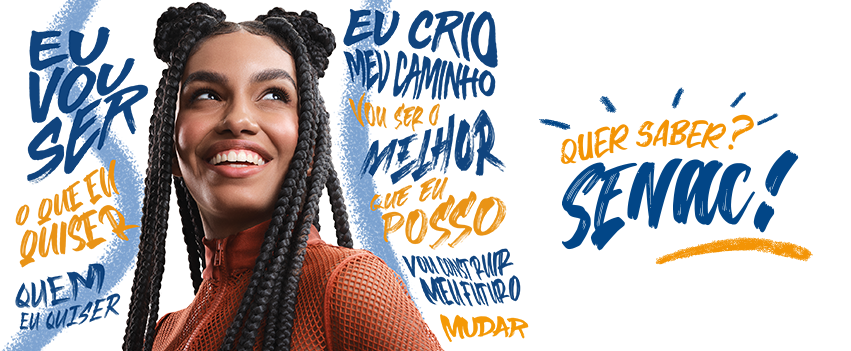
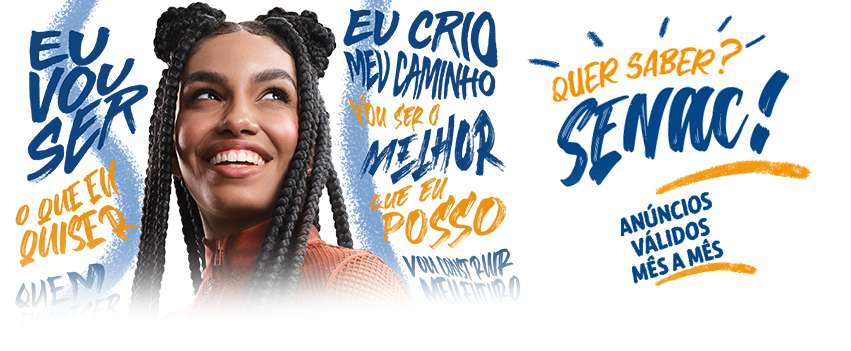
Finalização do Mural
Finalização do Mural com conexão de banco de dados.

diff --git a/style.css b/style.css
@@ -129,6 +129,18 @@ footer {
   transform: scale(0.98);
 }
 
+/* ================== BOTÃO CANCELAR ================== */
+.modal-conteudo .btn.btn-secondary {
+  background-color: #004A8D; /* Azul por padrão */
+  color: white;              /* Texto branco */
+}
+
+.modal-conteudo .btn.btn-secondary:hover {
+  background-color: #ffffff; /* Fica branco no hover */
+  color: #004A8D;            /* Texto azul no hover */
+  border: 1px solid #004A8D; /* Borda azul */
+}
+
 /* ================== ÁREA DOS CARDS ================== */
 .cards {
     display: flex; /* Layout flexível em linha */
@@ -204,6 +216,10 @@ footer {
   padding: 10px;
   border-radius: 5px;
   display: none;
+  text-align: center; /* Alinha o texto principal */
+}
+.alerta * {
+  text-align: center; /* Garante que filhos também respeitem */
 }
 .alerta.sucesso {
   color: #155724;
@@ -216,12 +232,14 @@ footer {
   border: 1px solid #f5c6cb;
 }
 
+
+
 /*================== HERO ==================*/
 .hero {
   background: #e0e0e0; /* Cinza claro Define o fundo da seção hero como um tom de cinza claro*/
   text-align: center; /*Centraliza o texto dentro dessa seção*/
   position: relative;/* Define o posicionamento relativo do elemento, permitindo o posicionamento absoluto de elementos internos dentro dele */
-  background-image: url('imagens/mural.webp');/* Define a imagem de fundo do elemento com o caminho fornecido */
+  background-image: url('imagens/senac.png');/* Define a imagem de fundo do elemento com o caminho fornecido */
   background-size: cover;/* Faz a imagem de fundo cobrir todo o espaço do elemento, mantendo a proporção e cortando a imagem se necessário */
   background-position: center;/* Posiciona a imagem de fundo no centro do elemento */
   background-repeat: no-repeat;/* Impede que a imagem de fundo se repita se o tamanho do elemento for maior que a imagem */
@@ -396,4 +414,19 @@ footer {
   height: auto !important;
   margin: 5px 0;
   vertical-align: middle !important;
+}
+
+/*================== IMAGEM ANUNCIO NO MODAL ==================*/
+.anuncios {
+  display: block;           /* Faz a imagem se comportar como bloco */
+  margin: 0 auto;           /* Centraliza horizontalmente */
+  max-width: 100%;          /* Faz a imagem se ajustar ao tamanho da tela */
+  height: auto;             /* Mantém a proporção */
+  width: 300px;             /* Tamanho máximo desejado (ajuste como quiser) */
+}
+
+@media (max-width: 600px) {
+  .anuncios {
+    width: 80%;             /* Em telas pequenas, usa 80% da largura do container */
+  }
 }

diff --git a/script.js b/script.js
@@ -16,7 +16,7 @@ async function mostrarCards() {
             const tipoClasseBtn = item.categoria === 'V' ? 'btn-vendo' : 'btn-ofereco';
 
             const card = `
-            <div class="card m-2 p-3 d-flex flex-column justify-content-between" style="width: 18rem; height: 100%;">
+            <div class="card m-2 p-3 d-flex flex-column justify-content-between" style="width: 18rem; height: 30rem">
                 <span class="categoria ${item.categoria === 'V' ? 'vendo' : 'ofereco'}">
                     ${item.categoria === 'V' ? 'Vendo' : 'Ofereço'}
                 </span>
@@ -28,10 +28,10 @@ async function mostrarCards() {
                 <div class="mt-auto">
                     <div class="mt-2 d-flex gap-2">
                         <a href="tel:${numeroLimpo}" class="${tipoClasseBtn} botao-metade" target="_blank">
-                            <img src="imagens/telefone.png" alt="Telefone" class="telWhats">Ligar
+                            <img src="imagens/telefone.png" alt="Telefone" class="telWhats"> Ligar
                         </a>
                         <a href="https://wa.me/${numeroLimpo}" class="${tipoClasseBtn} botao-metade" target="_blank">
-                            <img src="imagens/whatsapp.png" alt="Telefone" class="telWhats">Whats
+                            <img src="imagens/whatsapp.png" alt="Telefone" class="telWhats"> Whats
                         </a>
                     </div>
                     <div class="mt-2">
@@ -184,10 +184,10 @@ function exibirCards(mural) {
                 <div class="mt-auto">
                     <div class="mt-2 d-flex gap-2">
                         <a href="tel:${numeroLimpo}" class="${tipoClasseBtn} botao-metade" target="_blank">
-                            <img src="imagens/telefone.png" alt="Telefone" class="telWhats">Ligar
+                            <img src="imagens/telefone.png" alt="Telefone" class="telWhats"> Ligar
                         </a>
                         <a href="https://wa.me/${numeroLimpo}" class="${tipoClasseBtn} botao-metade" target="_blank">
-                            <img src="imagens/whatsapp.png" alt="WhatsApp" class="telWhats">Whats
+                            <img src="imagens/whatsapp.png" alt="WhatsApp" class="telWhats"> Whats
                         </a>
                     </div>
                     <div class="mt-2">

diff --git a/index.php b/index.php
@@ -1,3 +1,7 @@
+<?php 
+include_once 'controller/verificaInativacao.php';
+?>
+
 <!DOCTYPE html>
 <html lang="pt-br">
 
@@ -24,9 +28,11 @@
         </div>
     </section>
 
+    
     <!--================== BARRA DE NAVEGAÇÃO ==================-->
     <section>
         <div class="container">
+            <img src="imagens/anuncios.png" class="anuncios" alt="Anúncios">
             <div class="cards row" id="listaAnuncios">
 
             </div>
@@ -122,10 +128,10 @@
             <p><strong>Telefone:</strong> <span id="visualizarTelefone"></span></p>
             <div class="mt-2 d-flex gap-2">
                 <a id="linkLigar" href="#" class="botao-metade" target="_blank">
-                    <img src="imagens/telefone.png" alt="Telefone" class="telWhats">Ligar
+                    <img src="imagens/telefone.png" alt="Telefone" class="telWhats"> Ligar
                 </a>
                 <a id="linkWhatsapp" href="#" class="botao-metade" target="_blank">
-                    <img src="imagens/whatsapp.png" alt="WhatsApp" class="telWhats">Whats
+                    <img src="imagens/whatsapp.png" alt="WhatsApp" class="telWhats"> Whats
                 </a>
             </div>
         </div>
@@ -135,7 +141,7 @@
     <!--================== INFORMAÇÃO DO REDAPÉ ==================-->
     <footer>
         <div class="container">
-            <p style="text-align: center;">&copy; Mural do Empreendedorismo.</p>
+            <p style="text-align: center;">&copy; Todos os Direitos Reservados. Mural do Empreendedorismo.</p>
         </div>
     </footer>
 

diff --git a/controller/inserirMural.php b/controller/inserirMural.php
@@ -25,25 +25,34 @@ if (!$categoria || !$nome || !$email || !$telefone || !$titulo || !$descricao) {
     exit;
 }
 
-$sql = "INSERT INTO CAD_MURAL (CATEGORIA, NOME, EMAIL, TELEFONE, TITULO, DESCRICAO, ST_REGISTRO) VALUES (?, ?, ?, ?, ?, ?, 'A')";
-$stmt = $conn->prepare($sql);
 
-if (!$stmt) {
-    $response['message'] = "Erro no prepare: " . $conn->error;
+try {
+    $sql = "INSERT INTO CAD_MURAL (CATEGORIA, NOME, EMAIL, TELEFONE, TITULO, DESCRICAO, ST_REGISTRO) VALUES (?, ?, ?, ?, ?, ?, 'A')";
+    $stmt = $conn->prepare($sql);
+
+    if (!$stmt) {
+        $response['message'] = "Erro no prepare: " . $conn->error;
+        echo json_encode($response);
+        exit;
+    }
+    $stmt->bind_param("ssssss", $categoria, $nome, $email, $telefone, $titulo, $descricao);
+
+    if ($stmt->execute()) {
+        $response['success'] = true;
+        $response['message'] = 'Inserido no mural com sucesso!';
+    } else {
+        $response['message'] = 'Erro ao cadastrar: ' . $stmt->error;
+    }
+
+    $stmt->close();
+    $conn->close();
+
+    echo json_encode($response);
+} catch (Exception $e) {
+    //throw $th;
+    $response['message'] = $e->getMessage();
     echo json_encode($response);
     exit;
 }
 
-$stmt->bind_param("ssssss", $categoria, $nome, $email, $telefone, $titulo, $descricao);
 
-if ($stmt->execute()) {
-    $response['success'] = true;
-    $response['message'] = 'Inserido no mural com sucesso!';
-} else {
-    $response['message'] = 'Erro ao cadastrar: ' . $stmt->error;
-}
-
-$stmt->close();
-$conn->close();
-
-echo json_encode($response);

diff --git a/config.php b/config.php
@@ -7,14 +7,14 @@ if ($_SERVER['SERVER_NAME'] == 'localhost') {
     $usuario = "root";
     $senha = ""; // SEM senha por padrão no XAMPP
     $banco = "senacmural";
-    // $porta = 3080;          // coloque 3080 se realmente alterou a porta do MySQL
-    $porta = 3306;          // coloque 3080 se realmente alterou a porta do MySQL
+    $porta = 3080;          // coloque 3080 se realmente alterou a porta do MySQL
+    // $porta = 3306;          // coloque 3080 se realmente alterou a porta do MySQL
 } else {
     // Produção
-    $servidor = "sql.seuprovedor.com";
-    $usuario = "usuario_producao";
-    $senha = "senha_producao";
-    $banco = "senacmural";
+    $servidor = "sql202.infinityfree.com";
+    $usuario = "if0_39545934";
+    $senha = "q3V3WcFCvJr";
+    $banco = "if0_39545934_senacmural";
     $porta = 3306; // coloque 3080 se realmente alterou a porta do MySQL
 }
 

diff --git a/controller/verificaInativacao.php b/controller/verificaInativacao.php
@@ -1,0 +1,14 @@
+<?php
+require_once 'config.php';
+
+// Verifica se é dia 01 e hora igual ou maior que 01:00
+$dataAtual = new DateTime("now", new DateTimeZone('America/Sao_Paulo'));
+$dia = $dataAtual->format('d');
+$hora = $dataAtual->format('H');
+
+// Verifica se é dia 01 e hora >= 01
+if ($dia == '01' && $hora >= 1) {
+    // Atualiza os registros para inativos
+    $sql = "UPDATE CAD_MURAL SET ST_REGISTRO = 'I' WHERE ST_REGISTRO = 'A'";
+    $conn->query($sql);
+}
